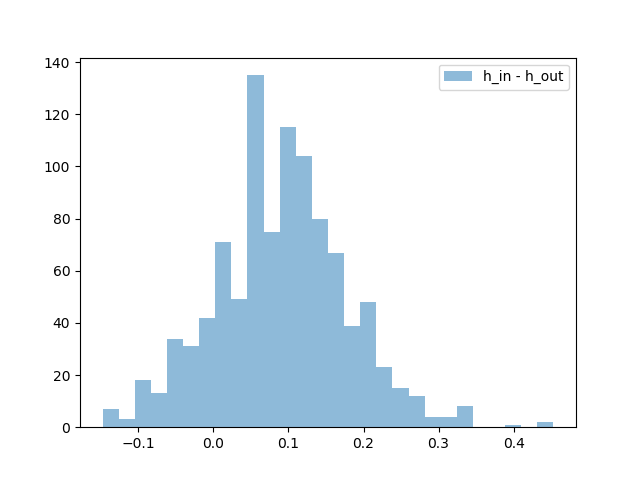
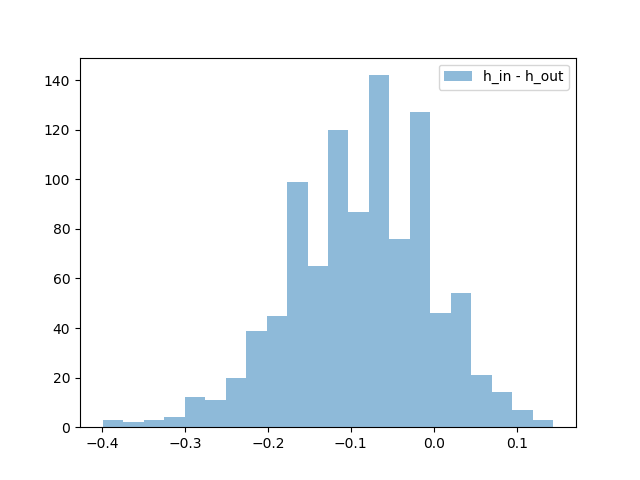
fix estimate

diff --git a/hw2/hw2.py b/hw2/hw2.py
@@ -73,7 +73,7 @@ if __name__ == "__main__":
         e_out, e_in = decision_stump(x, y)
         e_ins.append(e_in)
         e_outs.append(e_out)
-        estimate.append(e_out - e_in)
+        estimate.append(e_in - e_out)
 
     print('avergage e_in =  {}'.format(sum(e_ins)/ITERATION_TIME))
     print('avergage e_out =  {}'.format(sum(e_outs)/ITERATION_TIME))
